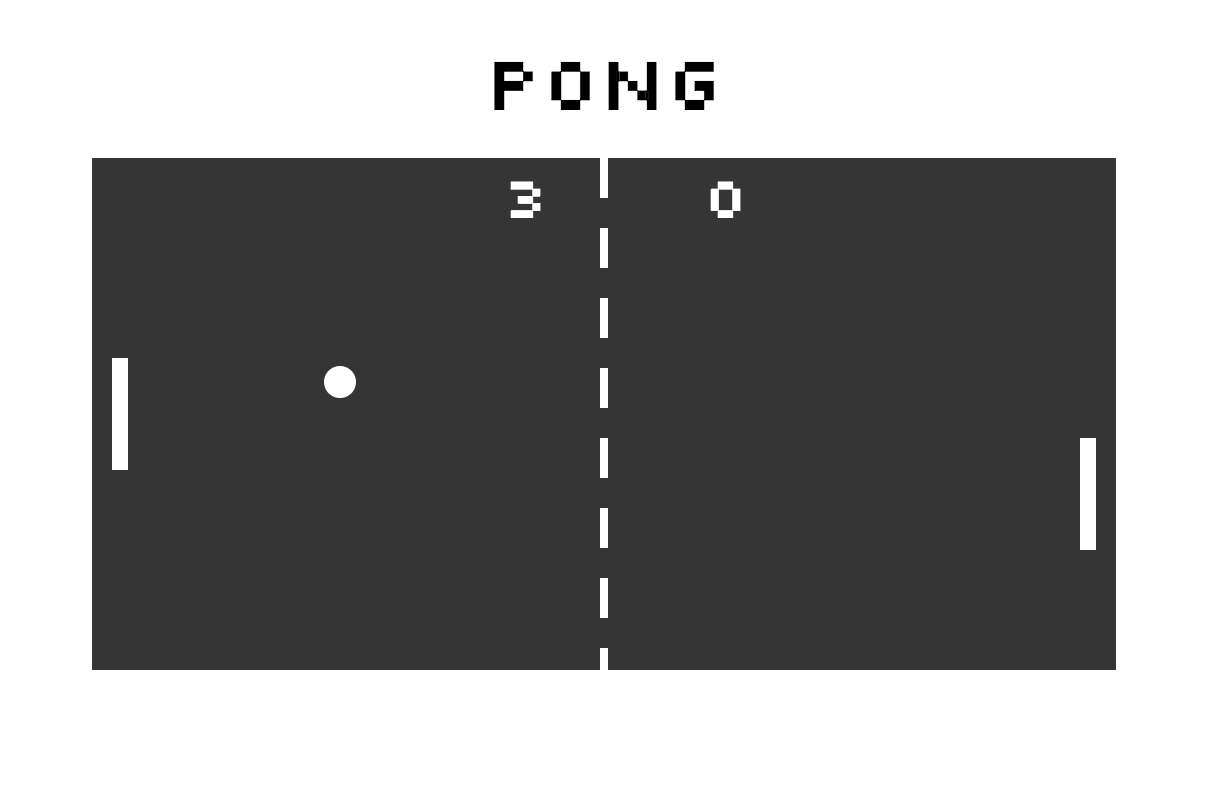
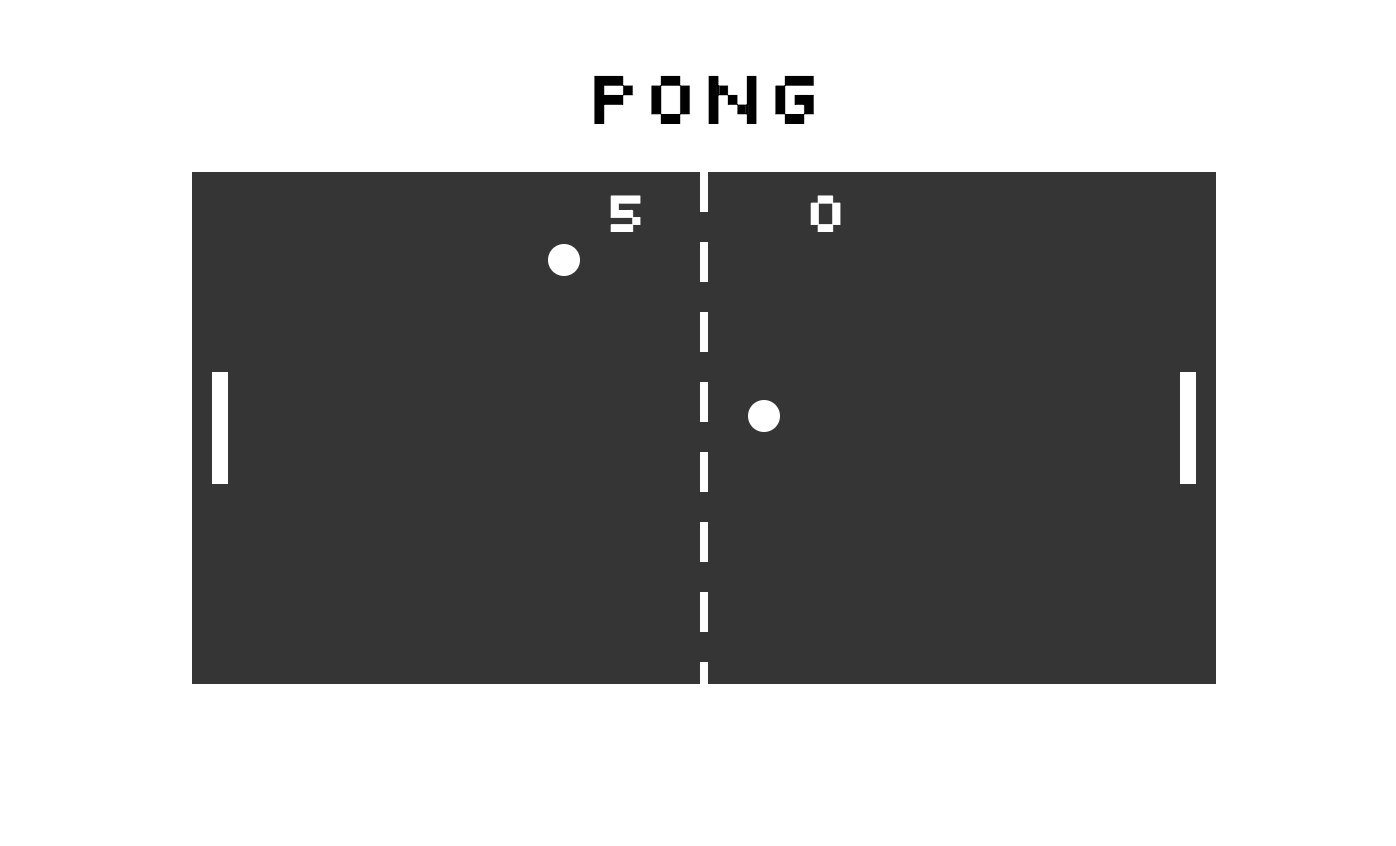
”Ball2.js”

diff --git a/build/bundle.js b/build/bundle.js
@@ -466,6 +466,10 @@
 
 	var _Score2 = _interopRequireDefault(_Score);
 
+	var _Ball3 = __webpack_require__(15);
+
+	var _Ball4 = _interopRequireDefault(_Ball3);
+
 	function _interopRequireDefault(obj) { return obj && obj.__esModule ? obj : { default: obj }; }
 
 	function _classCallCheck(instance, Constructor) { if (!(instance instanceof Constructor)) { throw new TypeError("Cannot call a class as a function"); } }
@@ -494,10 +498,15 @@
 
 	        this.score2 = new _Score2.default(this.width / 2 + 50, 30, 30);
 
+	        this.ball2 = new _Ball2.default(8, this.width, this.height, 'lightblue');
+
 	        document.addEventListener('keydown', function (event) {
 	            switch (event.keyCode) {
 	                case _settings.KEYS.spaceBar:
 	                    _this.pause = !_this.pause;
+	                    break;
+	                case _settings.KEYS.v:
+	                    _this.ball2 = new _Ball2.default(BALL.radius, _this.width, _this.height, 'lightblue');
 	                    break;
 	            }
 	        });
@@ -529,6 +538,7 @@
 	            this.ball.render(svg, this.paddle1, this.paddle2);
 	            this.score1.render(svg, this.paddle1.score);
 	            this.score2.render(svg, this.paddle2.score);
+	            this.ball2.render(svg, this.paddle1, this.paddle2);
 	        }
 	    }]);
 
@@ -867,6 +877,72 @@
 	}();
 
 	exports.default = Score;
+
+/***/ },
+/* 15 */
+/***/ function(module, exports, __webpack_require__) {
+
+	'use strict';
+
+	Object.defineProperty(exports, "__esModule", {
+	  value: true
+	});
+
+	var _createClass = function () { function defineProperties(target, props) { for (var i = 0; i < props.length; i++) { var descriptor = props[i]; descriptor.enumerable = descriptor.enumerable || false; descriptor.configurable = true; if ("value" in descriptor) descriptor.writable = true; Object.defineProperty(target, descriptor.key, descriptor); } } return function (Constructor, protoProps, staticProps) { if (protoProps) defineProperties(Constructor.prototype, protoProps); if (staticProps) defineProperties(Constructor, staticProps); return Constructor; }; }();
+
+	var _settings = __webpack_require__(10);
+
+	var _Paddle = __webpack_require__(12);
+
+	var _Paddle2 = _interopRequireDefault(_Paddle);
+
+	function _interopRequireDefault(obj) { return obj && obj.__esModule ? obj : { default: obj }; }
+
+	function _classCallCheck(instance, Constructor) { if (!(instance instanceof Constructor)) { throw new TypeError("Cannot call a class as a function"); } }
+
+	var Ball2 = function () {
+	  function Ball2(radius, boardWidth, boardHeight) {
+	    _classCallCheck(this, Ball2);
+
+	    this.radius = radius;
+	    this.boardWidth = boardWidth;
+	    this.boardHeight = boardHeight;
+	    this.direction = 1;
+
+	    this.ball2();
+	  }
+
+	  _createClass(Ball2, [{
+	    key: 'ball2',
+	    value: function ball2() {
+	      this.x = 10;
+	      this.y = this.boardHeight / 2;
+	      this.y = _Paddle2.default.y + _Paddle2.default.height / 2;
+
+	      this.vy = 0;
+	      this.vx = this.direction * (6 - Math.abs(this.vy));
+	    }
+	  }, {
+	    key: 'render',
+	    value: function render(svg) {
+	      this.x += this.vx;
+	      this.y += this.vy;
+
+	      var circle = document.createElementNS(_settings.SVG_NS, 'circle');
+	      circle.setAttributeNS(null, 'r', this.radius);
+	      circle.setAttributeNS(null, 'stroke', 'yellow');
+	      circle.setAttributeNS(null, 'fill', 'red');
+	      circle.setAttributeNS(null, 'cx', this.x);
+	      circle.setAttributeNS(null, 'cy', this.y);
+
+	      svg.appendChild(circle);
+	    }
+	  }]);
+
+	  return Ball2;
+	}();
+
+	exports.default = Ball2;
 
 /***/ }
 /******/ ]);

diff --git a/src/partials/Game.js b/src/partials/Game.js
@@ -4,6 +4,7 @@ import Board from './Board';
 import Paddle from './Paddle';
 import Ball from './Ball';
 import Score from './Score';
+import Ball2 from './Ball2';
 
 export default class Game {
 
@@ -48,12 +49,22 @@ export default class Game {
         this.score2 = new Score(
         this.width/ 2+50, 30, 30);
 
+        this.ball2 = new Ball(
+          8,
+          this.width,
+          this.height,
+          'lightblue'
+        );
+
 
         document.addEventListener('keydown', event => {
             switch (event.keyCode) {
                 case KEYS.spaceBar:
                     this.pause =!this.pause;
 										break;
+                    case KEYS.v:
+					this.ball2 = new Ball(BALL.radius, this.width, this.height, 'lightblue');
+					break;
             }
         });
         //id of a thing we want to append this game to and width and height is the size of vp and vb of our game
@@ -82,6 +93,7 @@ export default class Game {
         this.ball.render(svg, this.paddle1, this.paddle2);
         this.score1.render(svg, this.paddle1.score);
         this.score2.render(svg, this.paddle2.score);
+        this.ball2.render(svg, this.paddle1, this.paddle2);
 
     }
 

diff --git a/src/partials/Ball2.js b/src/partials/Ball2.js
@@ -1,0 +1,38 @@
+import {
+  SVG_NS
+} from '../settings';
+import Paddle from './Paddle';
+
+export default class Ball2 {
+  constructor(radius, boardWidth, boardHeight) {
+    this.radius = radius;
+    this.boardWidth = boardWidth;
+    this.boardHeight = boardHeight;
+    this.direction = 1;
+
+    this.ball2();
+  }
+
+  ball2() {
+    this.x = 10;
+    this.y = this.boardHeight / 2;
+    this.y = Paddle.y + (Paddle.height / 2);
+
+    this.vy = 0;
+    this.vx = this.direction * (6 - Math.abs(this.vy));
+  }
+
+  render(svg) {
+    this.x += this.vx;
+    this.y += this.vy;
+
+    let circle = document.createElementNS(SVG_NS, 'circle');
+    circle.setAttributeNS(null, 'r', this.radius);
+    circle.setAttributeNS(null, 'stroke', 'yellow');
+    circle.setAttributeNS(null, 'fill', 'red');
+    circle.setAttributeNS(null, 'cx', this.x);
+    circle.setAttributeNS(null, 'cy', this.y);
+
+    svg.appendChild(circle);
+  }
+}
